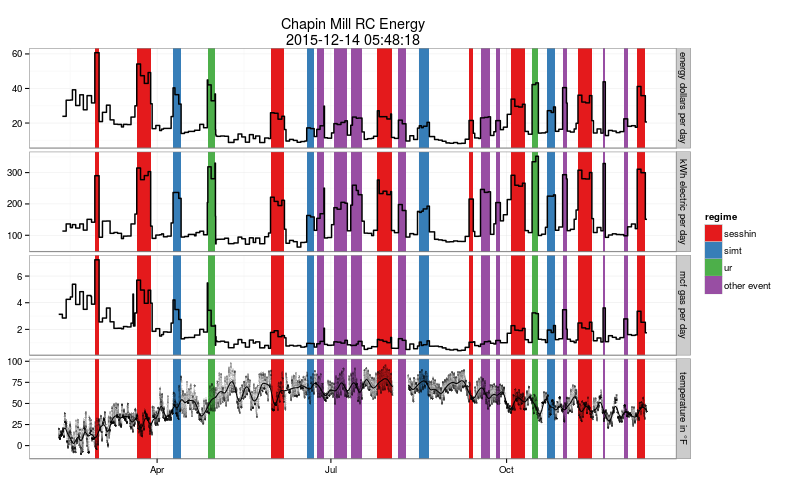
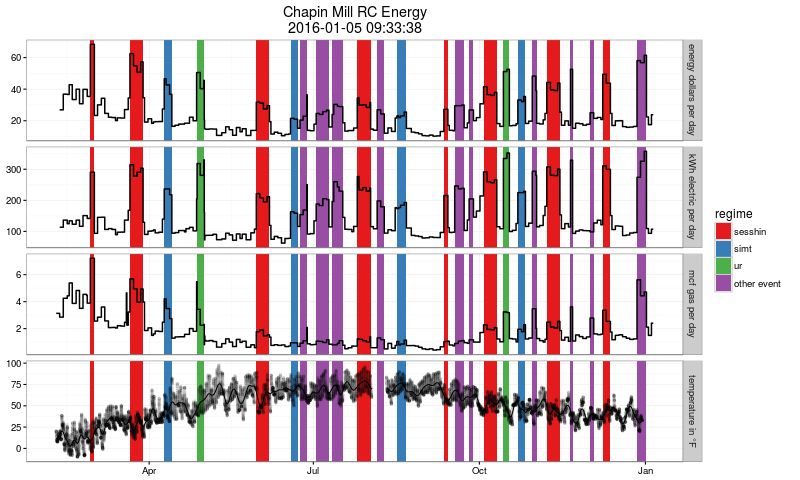
auto commit

diff --git a/index.html b/index.html
@@ -3,7 +3,7 @@
 "http://www.w3.org/TR/xhtml1/DTD/xhtml1-strict.dtd">
 <html xmlns="http://www.w3.org/1999/xhtml" lang="en" xml:lang="en">
 <head>
-<!-- 2015-12-14 Mon 05:48 -->
+<!-- 2016-01-05 Tue 09:33 -->
 <meta  http-equiv="Content-Type" content="text/html;charset=utf-8" />
 <meta  name="viewport" content="width=device-width, initial-scale=1" />
 <title></title>
@@ -355,7 +355,7 @@ essentially the same as that for SIMT.)
 
 <p>
 Historically the price per ccf of natural gas for Chapin Mill is
-<code>0.55</code> dollars. Altogether the scales and base rate
+<code>55</code> cents. Altogether the scales and base rate
 tell us that if the average outside air temperature is say 25
 degrees Fahrenheit then the amount spent on gas per day during
 idle, sesshin and SIMT/UR periods would be around
@@ -446,13 +446,13 @@ that for sesshin.)
 </p>
 
 <p>
-The average price of electricity for Chapin Mill has been
-<code>0.07</code> dollars per killowatt hour. Therefore the
-amount spent on electricity per day during idle, sesshin/UR and
-SIMT periods is about
-<code>8</code>,
-<code>22</code>, and
-<code>17</code>
+Assuming that the average price of electricity for Chapin Mill is
+<code>10</code> cents per killowatt hour the amount spent
+on electricity per day during idle, sesshin/UR and SIMT periods is
+about
+<code>11</code>,
+<code>30</code>, and
+<code>23</code>
 dollars respectively.
 </p>
 </div>
@@ -654,7 +654,7 @@ where \(y\) is electricity consumption in kWh per day and the
 </div>
 </div>
 <div id="postamble" class="status">
-<p class="date">Created: 2015-12-14 Mon 05:48</p>
+<p class="date">Created: 2016-01-05 Tue 09:33</p>
 <p class="validation"><a href="http://validator.w3.org/check?uri=referer">Validate</a></p>
 </div>
 </body>
